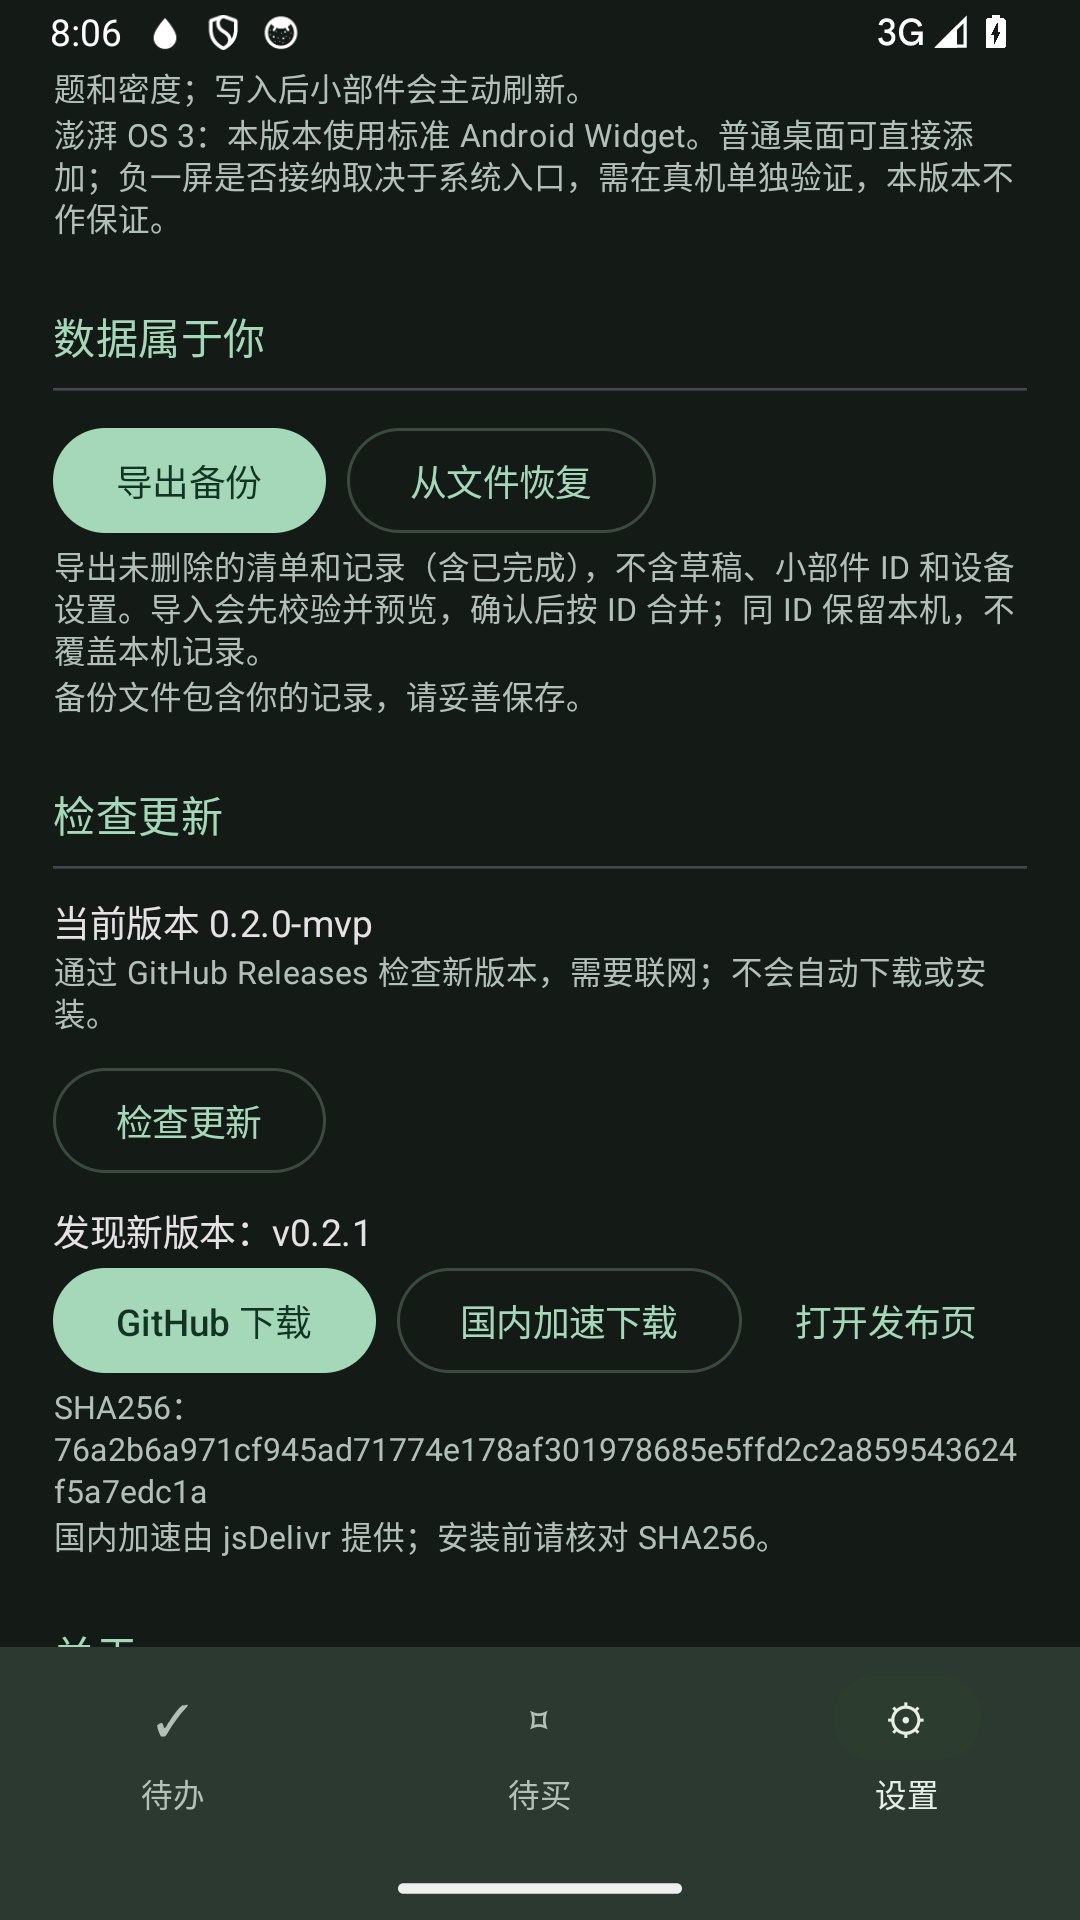
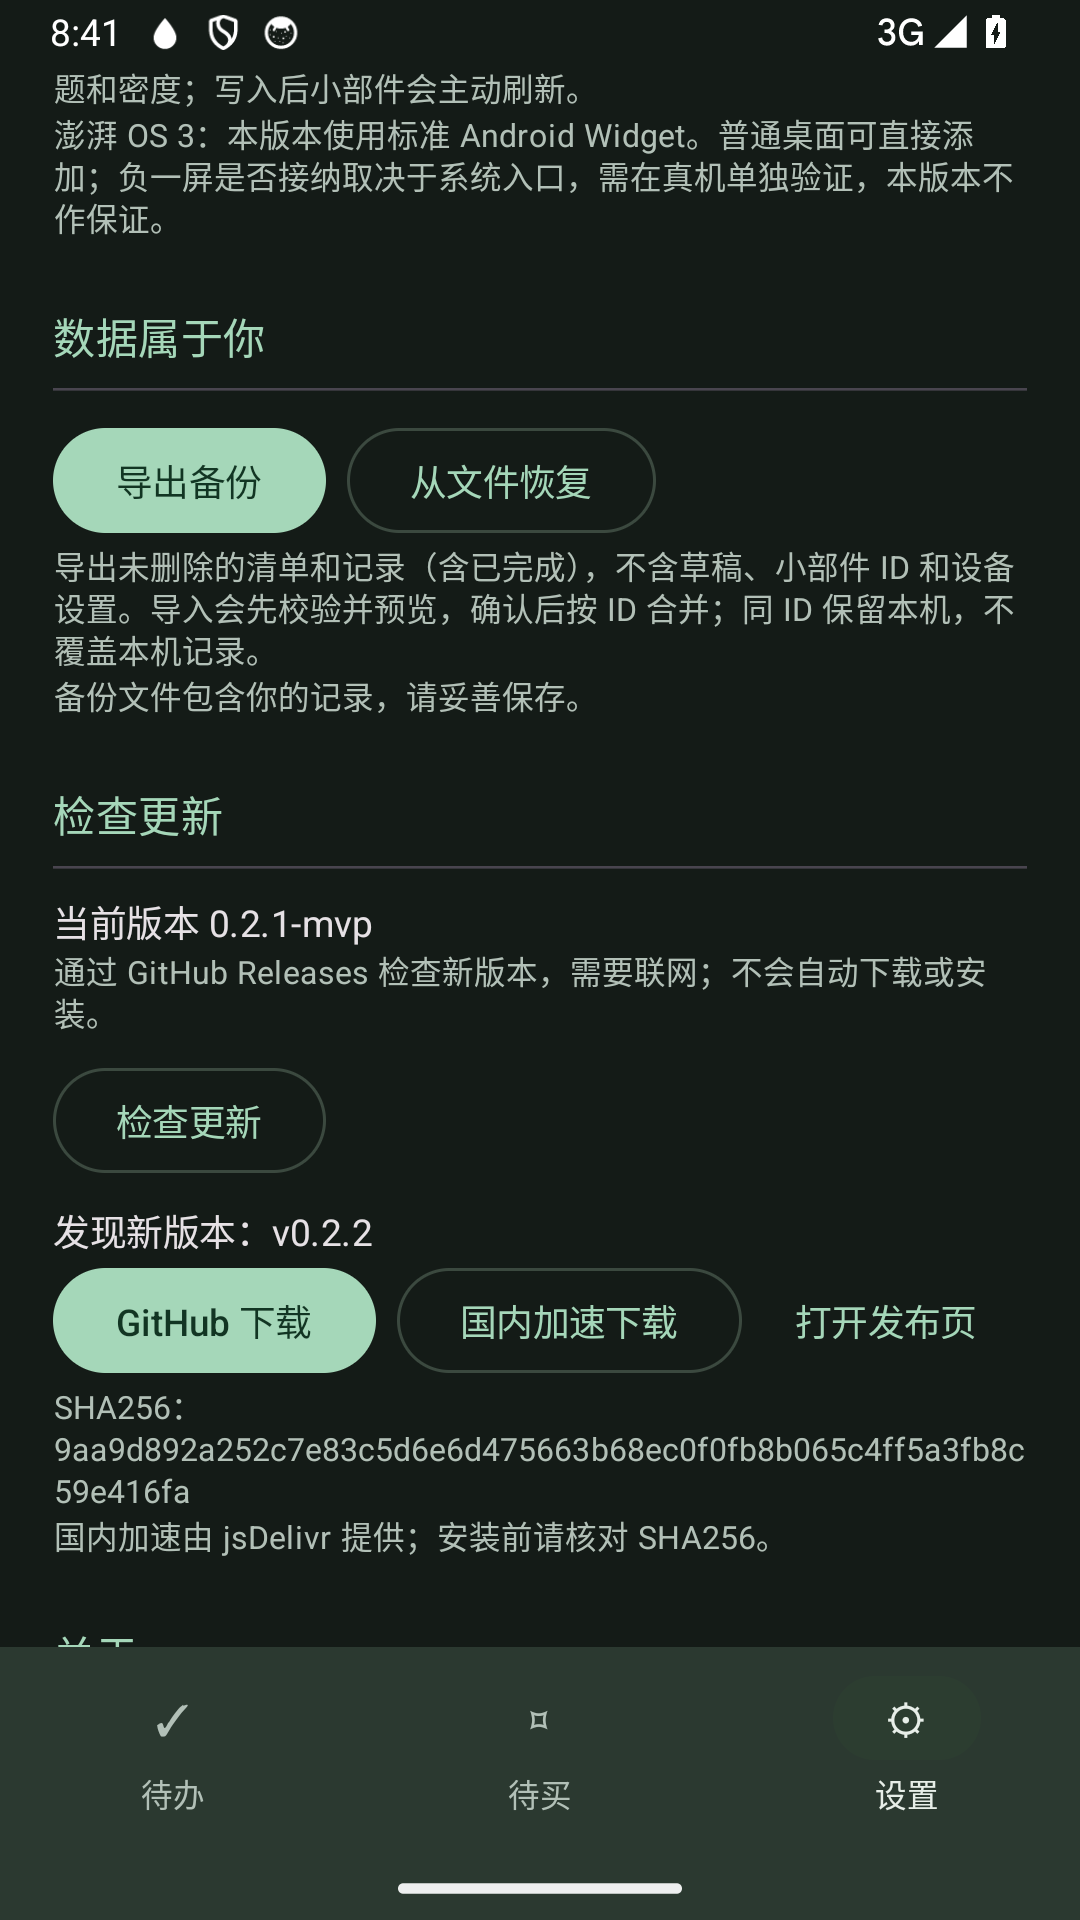
docs: verify warm glass release and jsDelivr purge workflow

Changed region(s): [[0.0306, 0.75, 0.9472, 0.7812], [0.0611, 0.0, 0.1222, 0.0312], [0.2444, 0.4688, 0.275, 0.5]]

diff --git a/scripts/update-manifest.py b/scripts/update-manifest.py
@@ -57,6 +57,7 @@ def main() -> None:
     args.output.write_text(json.dumps(manifest, ensure_ascii=False, indent=2) + "\n",
                            encoding="utf-8")
     print(f"wrote {args.output} for {tag} ({name}, {manifest['sha256']})")
+    print("after pushing main run: bash scripts/purge-jsdelivr-manifest.sh")
 
 
 if __name__ == "__main__":

diff --git a/docs/03-acceptance.md b/docs/03-acceptance.md
@@ -38,7 +38,7 @@
 
 - 0.2.0 基线：JVM 33/33、设备 29/29（[设备测试](evidence/android-instrumentation-0.2.0.txt)）。
 - 0.2.1 更新检查回退：JVM 38/38、设备 29/29（[设备测试](evidence/android-instrumentation-0.2.1.txt)）；`UpdateCheckerTest` 13 项覆盖 GitHub JSON、jsDelivr 清单、加速 URL、哈希、GitHub 失败回退与双源失败。
-- 0.2.2 暖调玻璃 Widget：JVM 38/38、设备 29/29（[设备测试](evidence/android-instrumentation-0.2.2.txt)）；浅色 #C2F9F6E9、深色 #CC112219，1dp 描边，24dp 圆角；真机/宿主截图见 [开发记录](development-log.md)。
+- 0.2.2 暖调玻璃 Widget：JVM 38/38、设备 29/29（[设备测试](evidence/android-instrumentation-0.2.2.txt)）；浅色 #C2F9F6E9、深色 #CC112219，1dp 描边，24dp 圆角。旧 0.2.1 检查更新显示 v0.2.2 两个下载入口和 SHA256；jsDelivr 清单 purge 后更新。截图见 [开发记录](development-log.md)。
 
 | ID | 结果 | 证据 / 说明 |
 |---|---|---|

diff --git a/docs/development-log.md b/docs/development-log.md
@@ -21,7 +21,13 @@
 - APK：<https://github.com/wacilimonster-source/wanglemai/releases/download/v0.2.2/wanglemai-0.2.2-debug.apk>
 - 国内加速 APK：<https://cdn.jsdelivr.net/gh/wacilimonster-source/wanglemai@v0.2.2/releases/wanglemai-0.2.2-debug.apk>
 
-截图：[暖调玻璃 Widget](android-widget-translucent-c.png)、[C 方案设计稿](widget-design-c.png)。
+发布后验证：
+
+- 旧 `0.2.1` 安装检查更新，实际显示“发现新版本：v0.2.2”，同时出现 GitHub 下载、国内加速下载、发布页和 SHA256；国内加速入口成功进入 Chrome。
+- jsDelivr `@main/update/latest.json` 分支缓存需要发布后主动 purge；执行 `scripts/purge-jsdelivr-manifest.sh` 后清单从 v0.2.1 更新为 v0.2.2。
+- 最终安装 0.2.2 APK；版本 versionCode 4。
+
+截图：[暖调玻璃 Widget](android-widget-translucent-c.png)、[C 方案设计稿](widget-design-c.png)、[可更新界面](android-update-available.png)。
 
 ---
 

diff --git a/README.md b/README.md
@@ -45,7 +45,8 @@ adb -s emulator-5558 shell am instrument -w -r com.wanglemai.app.test/androidx.t
 2. 构建并复制 APK 到 `releases/`。
 3. 生成国内回退清单：`python scripts/update-manifest.py vX.Y.Z releases/wanglemai-X.Y.Z-debug.apk --release-name "忘了没 vX.Y.Z MVP"`。
 4. 提交、打 tag、推送，并在 GitHub 创建 Release，上传 APK 资产。
-5. jsDelivr 静态清单使用 `@main`，可能有缓存延迟；APK 加速链接使用 tag，避免内容漂移。
+5. 推送后清理 jsDelivr 分支缓存：`bash scripts/purge-jsdelivr-manifest.sh`；否则国内回退清单可能延迟更新。
+6. jsDelivr 静态清单使用 `@main`；APK 加速链接使用 tag，避免内容漂移。
 
 ## 安装与添加小部件
 
